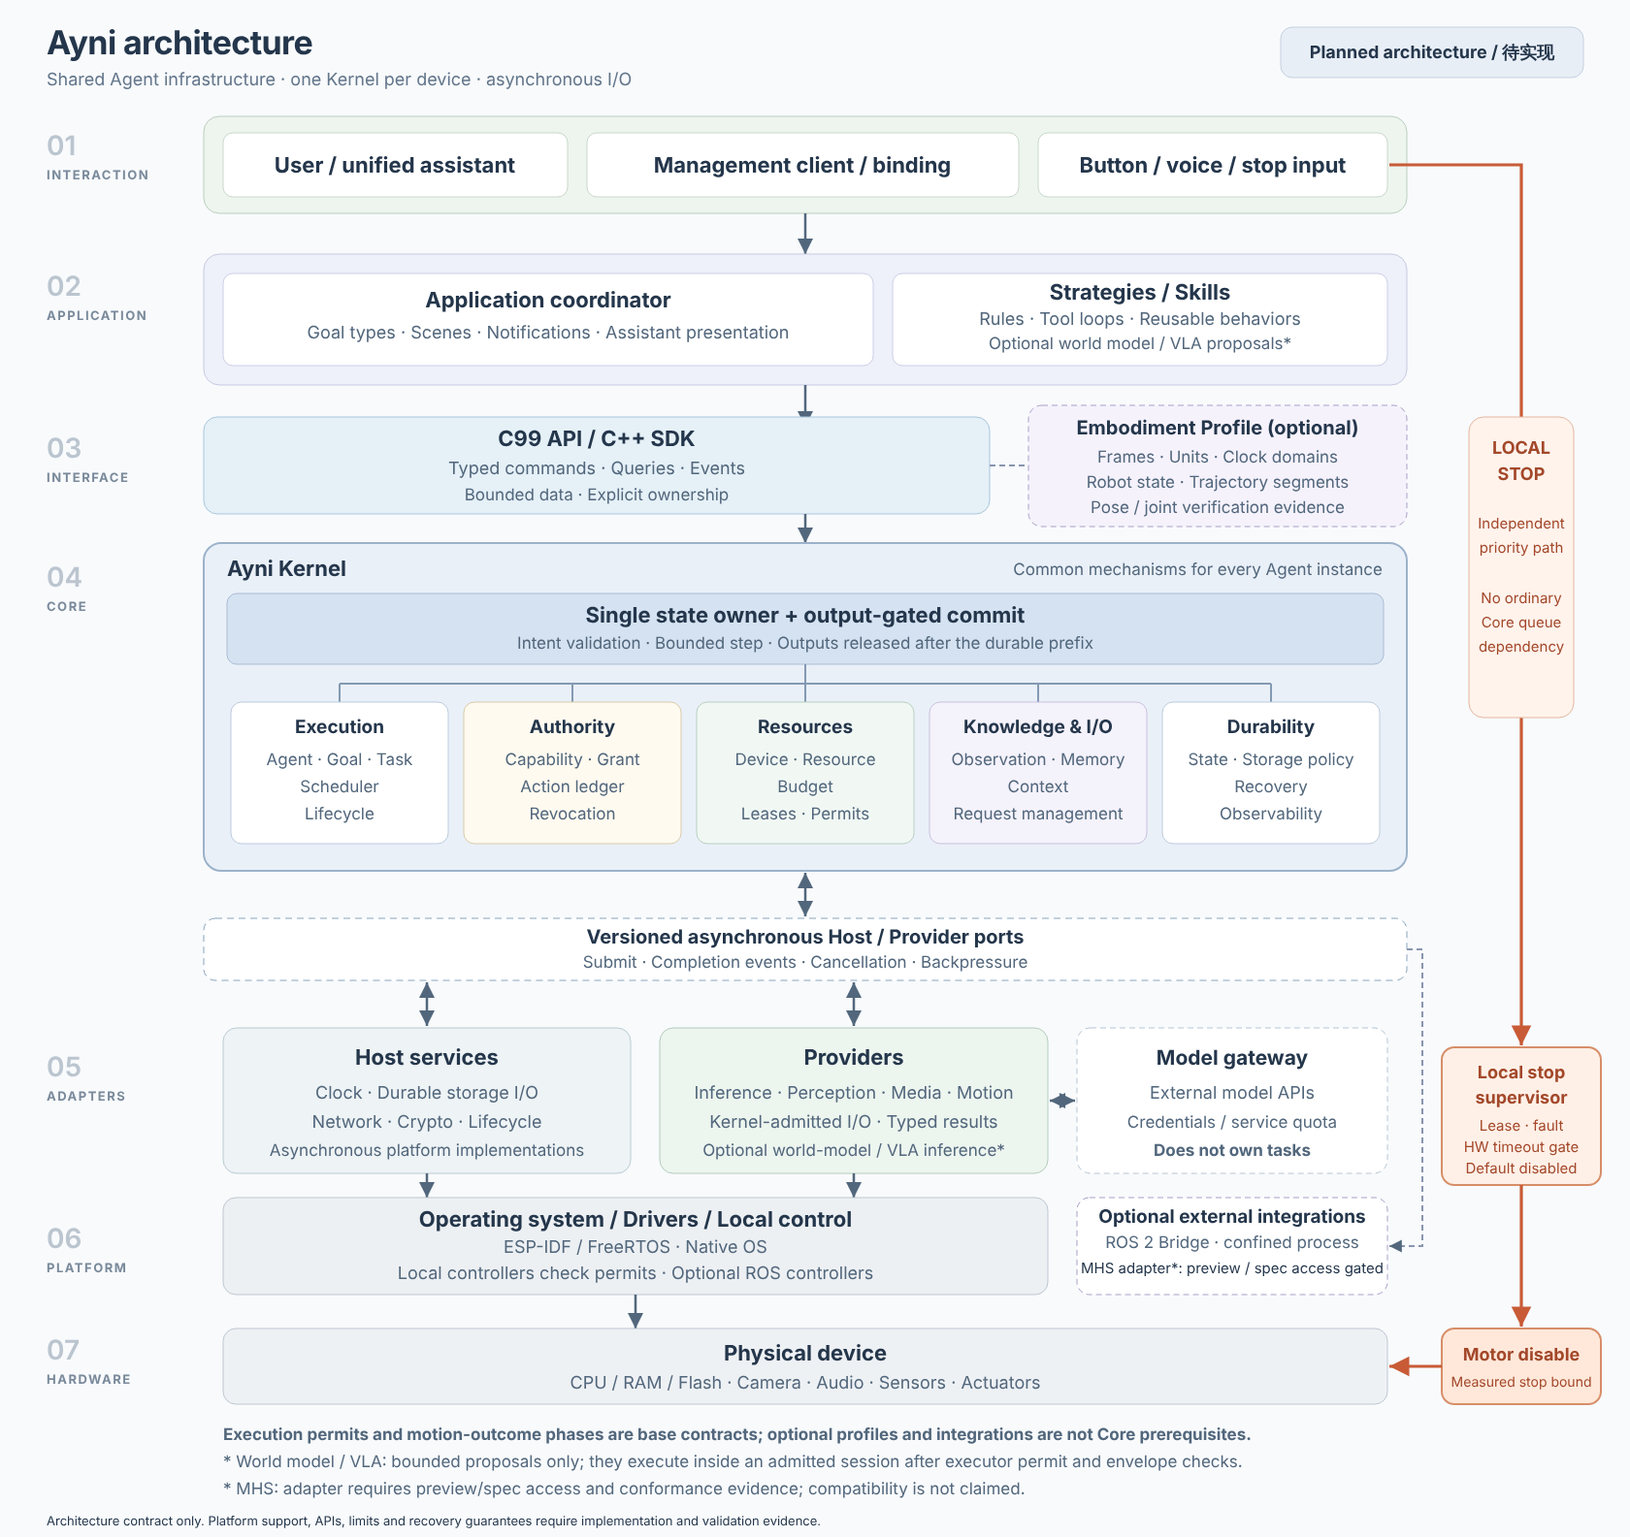
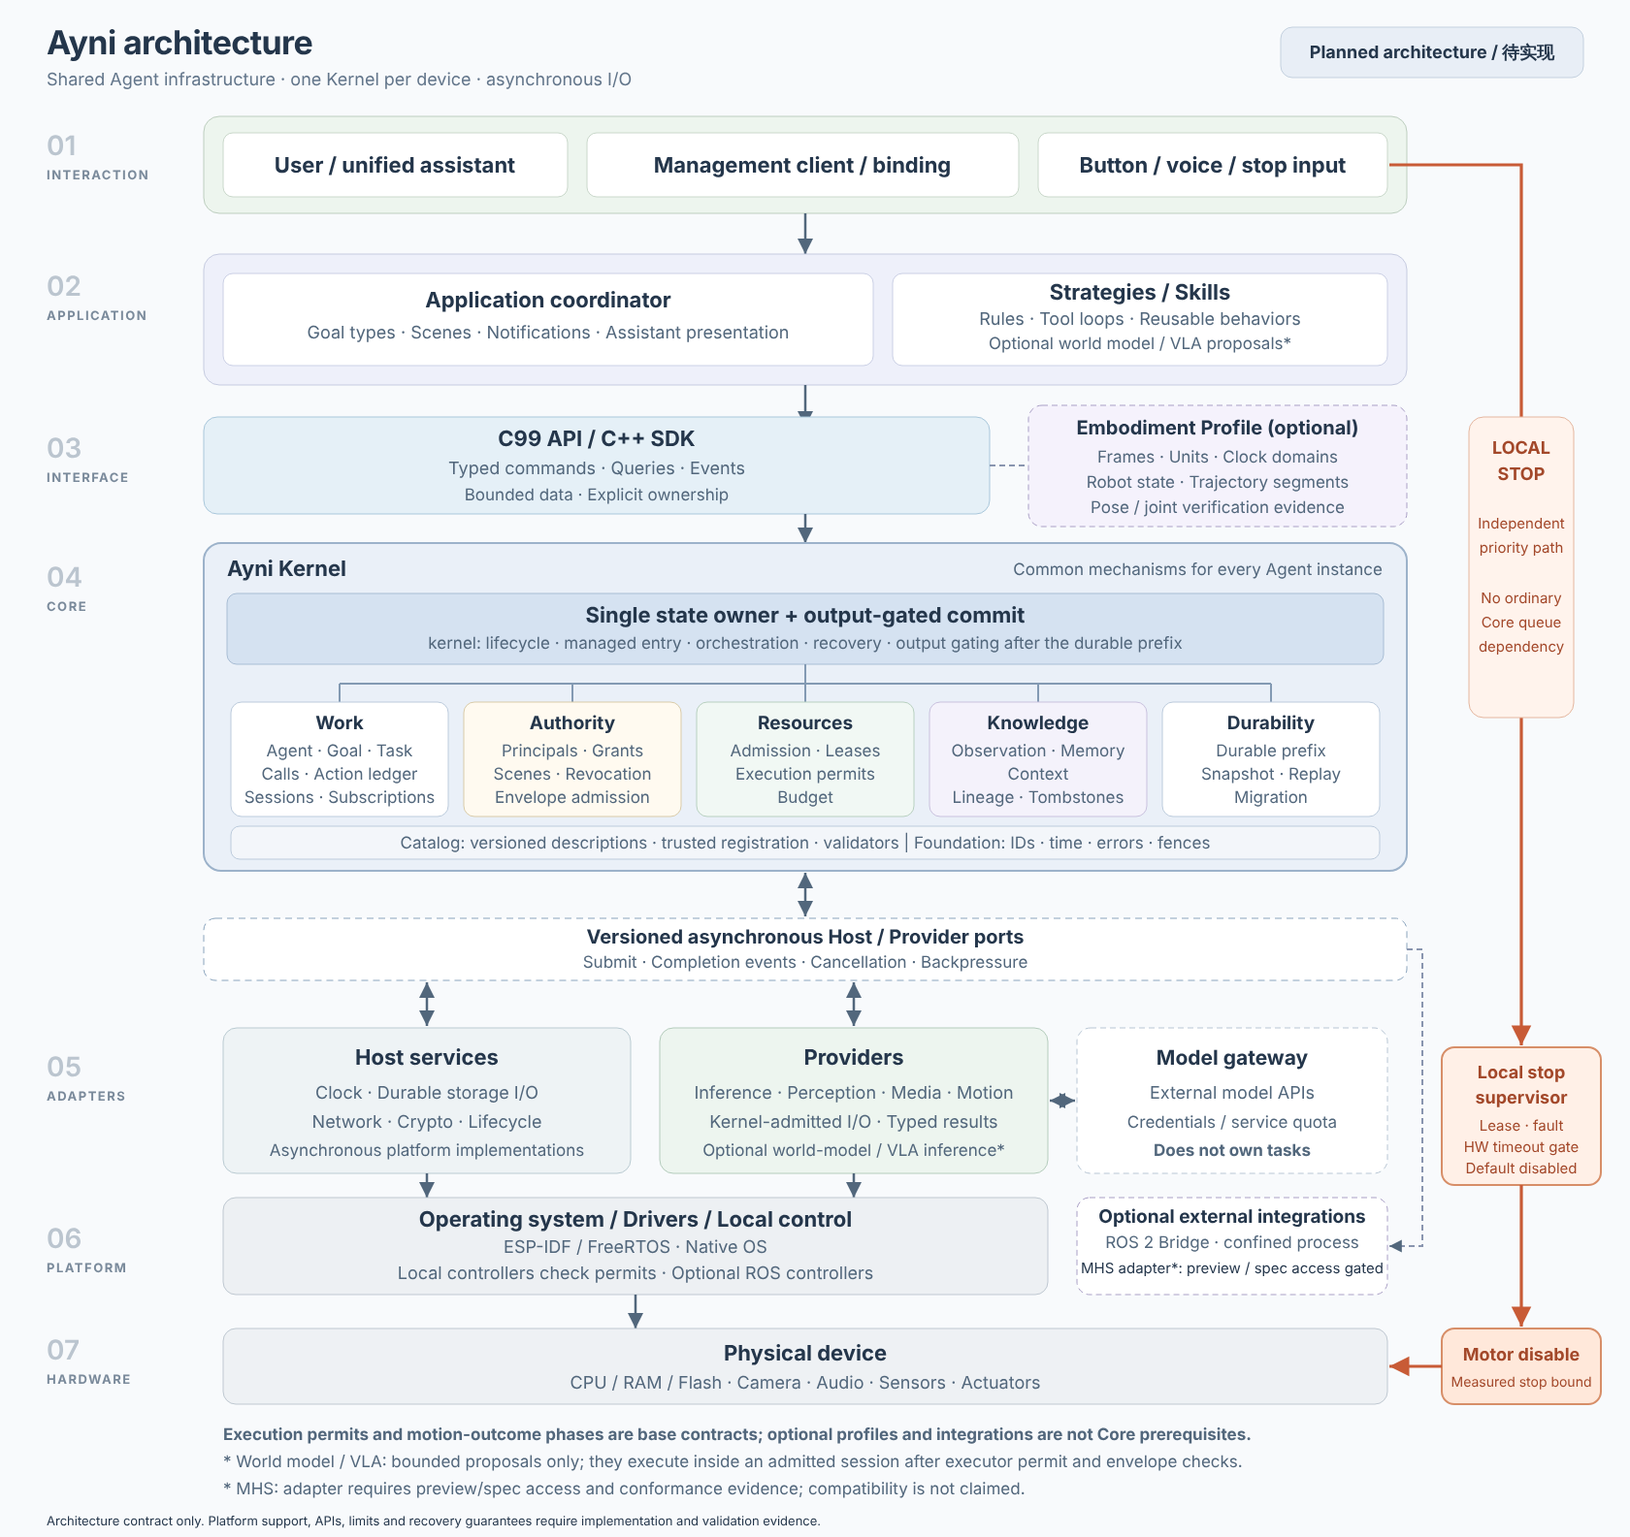
docs: adopt invariant-owner Core modules and a runtime composition root
- Evaluate ADR-0008 by its own criterion: six invariants needed three or
  more directories to write them, and the command idempotency map and
  LogicalCall identity had no owner; accept the eight-module split.
- Rewrite section 2.3 and the dependency rules around kernel, work,
  authority, resources, knowledge, catalog, durability and foundation.
- Add runtime/ as the only composition root (ADR-0010) and rename the
  executable directory apps/ to targets/ so it no longer reads like the
  applications/ layer.
- Update the READMEs, AGENTS.md and the architecture diagram to match.

Validation: git diff --check; the scratch consistency script for
section, work-package, fault-point, ADR and link references and table
columns; the SVG was rendered with Chromium (no new text overflow) and
the PNG regenerated. No code, simulator or hardware tests exist yet.

Claude-Session: https://claude.ai/code/session_01FMBjYcFnwkncm2dqPJbawp

Changed region(s): [[0.1548, 0.4637, 0.8357, 0.5565], [0.2786, 0.4019, 0.7119, 0.4328]]

diff --git a/docs/adr/0008-core-modules-by-invariant-owner.md b/docs/adr/0008-core-modules-by-invariant-owner.md
@@ -1,47 +1,58 @@
 # ADR-0008：Core 模块按不变量属主划分
 
-- **状态**：提议
-- **决定时点**：首个 Core 实现提交之前接受、修订或否决
+- **状态**：已接受（设计基线，待实现与验证）
 - **日期**：2026-10-18
-- **关联**：计划 §2.0、§2.3、§8；`MA-017`
+- **关联**：计划 §2.0、§2.3、§2.8、§4.3、§8；`MA-017`
 
 ## 背景
 
-计划 §8 按实体名词把 Core 切分为 19 个目录。派发屏障这一关键安全链路分布在 `capability/`、`policy/`、`request/`、`binding/` 与 `state/`；LogicalCall 在 v1.3 中没有归属；架构图中的 Core 分组也与目录划分不一致。v1.4 已在现有目录内为每项不变量指定唯一属主（§2.3），恢复编排放在系统调用分派层，作为过渡方案。
+v1.3 的计划 §8 按实体名词把 Core 切分为 19 个目录。派发屏障这一关键安全链路分布在 `capability/`、`policy/`、`request/`、`binding/` 与 `state/`；LogicalCall 没有归属；架构图中的 Core 分组也与目录划分不一致。v1.4 首先在原有目录内为每项不变量指定唯一属主，并把本 ADR 记为候选，约定在首个 Core 实现提交前按下述标准决定。
 
-## 候选决策
+**决定标准**：以 §2.8 的每个提交批次和 §4.3 的动作提交顺序为样例，列出每项不变量的写入方；若在原有目录下仍有不变量需要 3 个或以上目录共同写入，则采纳候选划分。
 
-按“谁维护不变量”划分 Core 模块，实体文件保留在模块内部：
+## 评估
+
+| 不变量 | 来源 | 原有目录下的写入方 | 候选划分下的写入方 |
+|---|---|---|---|
+| 命令重试返回原对象 | §2.8 批次 1 | 命令幂等映射（未指定属主）、`goal/`、`task/` | `kernel`（幂等映射）、`work` |
+| 触发不漏不重 | §2.8 批次 2 | `goal/`、`task/`、`budget/` | `work`；预算预留由 `resources` 独立保证 |
+| 步骤调用身份稳定 | §2.8 批次 3 | `task/`、`binding/`、`capability/`/`policy/`；LogicalCall 未指定属主 | `work` |
+| 结果只应用一次 | §2.8 批次 4 | `request/`、`task/`、`capability/`/`policy/` | `work` |
+| 删除与撤销不复活 | §2.8 批次 5 | `memory/`、`context/`、`observation/`、`request/` | `knowledge`；在途结果拒绝由 `kernel` 编排、`work` 执行 |
+| 派发屏障 | §4.3 | `capability/`/`policy/`、`request/`、`binding/`、`resource/`、`state/` | `work`；许可由 `resources` 签发，持久机制由 `durability` 提供 |
+| 预算不超、不双重结算 | §2.2 | `budget/` | `resources` |
+| 执行许可失效 | §2.10 | `resource/`、`policy/` | `resources`、`authority` |
+
+在原有目录下，前六项不变量各需 3 个或以上目录共同写入，并有两项状态（命令幂等映射、LogicalCall 身份）没有属主。在候选划分下，每项不变量最多两个写入方，且属主唯一。结论：满足采纳条件。
+
+## 决策
+
+Core 由以下八个模块组成。模块内部可按实体分文件（例如 `work/` 内的 goal、task、call、action_record、subscription），但文件划分不构成模块边界。
 
 | 模块 | 负责的不变量 |
 |---|---|
+| `kernel` | Kernel 生命周期、step、事件入口与完成槽、受管入口（解码 → 校验 → 分派）、命令幂等映射、跨模块编排、恢复编排、输出门控、trace 与脱敏诊断 |
+| `work` | AgentInstance 生命周期与资源归属；Goal、Task、步骤与检查点；LogicalCall 与请求尝试；ActionRecord 与派发屏障；过程、会话与订阅的生命周期 |
+| `authority` | 主体、节点与实例身份及其绑定证据；Session 信任级别；Grant、撤销与受限委派；Scene；包络静态准入判定 |
+| `resources` | 准入、队列与冲突；租期与隔离；执行许可的签发、续租与失效；预算层级、预留与结算；优先级与公平 |
+| `knowledge` | Observation 来源与有效期；记忆范围与版本；上下文预算；lineage、tombstone 与依赖失效 |
+| `catalog` | 设备、组件、资源、能力、绑定、目标类型与策略的版本化描述；可信注册；兼容矩阵；注册的纯函数校验器 |
+| `durability` | 持久前缀、日志与快照、已提交批次重放、迁移机制；不含领域策略 |
 | `foundation` | ID、时间、状态码与原因、有界容器、通用代际栅栏 |
-| `durability` | transition 日志、快照、`durable_seq`、重放、迁移机制，不含领域策略 |
-| `catalog` | 设备、组件、资源、能力、绑定与目标类型的版本化描述，以及兼容矩阵 |
-| `authority` | 主体信任级别、Grant、Scene、撤销栅栏、包络静态准入判定 |
-| `resources` | 准入、租约与执行许可、隔离、预算层级（预留与结算）、公平性 |
-| `knowledge` | Observation、Memory、Context 预算、lineage 与 tombstone |
-| `work` | Goal、Task、步骤、LogicalCall、ActionRecord、过程/会话：完整的调用生命周期与派发屏障 |
-| `kernel` | 生命周期、step、受管入口、跨模块编排、恢复编排、输出门控 |
 
-依赖方向为 `kernel → work → {authority, resources, knowledge} → catalog → durability → foundation`。删除、撤销等跨模块失效由 `kernel` 编排；具身校验器以纯函数注册到 `catalog`，Core 不按机器人类型编译。
+依赖方向为 `kernel → work → {authority, resources, knowledge} → catalog → durability → foundation`。`authority`、`resources`、`knowledge` 之间不互相依赖；需要多方参与的状态转换由 `kernel` 在同一 transition 中编排。具身包络等类型相关的校验器以纯函数注册到 `catalog`，Core 不按机器人类型编译。
 
-## 变更场景对比
+## 后果
 
-| 场景 | 现有目录 | 候选划分 |
-|---|---|---|
-| 修改副作用类别或屏障规则 | `capability/`、`policy/`、`request/`、`binding/`、`state/` | `work`，必要时加 `authority` 中的一项判定 |
-| 更换存储 Host | 只改持久层 Host 端口 | 同左 |
-| 新增一种机器人类型 | Core 不改 | Core 不改 |
+- 修改副作用类别或屏障规则时，改动集中在 `work`，必要时加上 `authority` 中的一项判定；原有目录下需要同时修改 5 个目录。
+- 更换存储 Host 只改持久层的 Host 端口；新增机器人类型不改 Core。两种划分在这两个场景下相同。
+- 模块较大，需要依靠内部文件结构保持可读。
 
-## 取舍
+## 备选方案
 
-候选划分的模块更大，需要靠内部文件结构保持可读；采纳后需一次性迁移计划 §2.3、§8 与架构图的表述。若不采纳，现有目录必须保持 §2.3 的唯一属主约定，并由依赖检查防止横向修改。
-
-## 决定依据
-
-以 §2.8 的每个提交批次和 §4.3 的动作提交顺序为样例，列出每项不变量的写入方。若在现有目录下仍有不变量需要 3 个或以上目录共同写入，则采纳候选划分；否则保留现有目录并记录理由。
+- **保留原有 19 个实体目录，只约定唯一属主**：评估中有六项不变量仍需 3 个以上目录写入，属主约定无法由依赖检查自动保证，否决。
+- **按调用流程分层（入口 → 校验 → 执行 → 持久）**：同一实体的不变量会散落在多个层次，否决。
 
 ## 验证
 
-采纳后，在 CI 中用构建目标依赖检查禁止反向依赖与依赖环。
+实现开始后，在 CI 中用构建目标依赖检查强制上述依赖方向，禁止依赖环以及 `authority`、`resources`、`knowledge` 之间的横向依赖。

diff --git a/docs/adr/0010-composition-root-and-targets.md b/docs/adr/0010-composition-root-and-targets.md
@@ -1,0 +1,33 @@
+# ADR-0010：组合根 `runtime/` 与可执行目标 `targets/`
+
+- **状态**：已接受（设计基线，待实现与验证）
+- **日期**：2026-10-18
+- **关联**：计划 §2.6、§8、§11；ADR-0006、ADR-0008
+
+## 背景
+
+- 计划要求 Core 不依赖具体 Host、Provider 或驱动，但没有规定由谁把它们装配在一起。若模拟器和 ESP32 固件各自装配，同一套装配逻辑（注册顺序、`ayni_start`、部署 Profile 的容量配置、控制与停止组件的连接）会出现两份，“只有一处引用具体实现”的规则也没有落点。
+- `apps/`（模拟器与固件的可执行程序）与 `applications/`（运行在 Ayni 之上的助理应用层）名称相近。在 AgentOS 的语境里，“apps”通常指运行在系统之上的应用，即 `applications/` 承担的职责，因此混淆的来源是可执行程序目录的名称。
+
+## 决策
+
+1. 新增组合根 `runtime/`：按部署 Profile（`CORE_LITE`、`CORE_FULL`，以及未来的设备端点）装配 Kernel、Host、Provider、控制与停止组件，完成注册与 `ayni_start`。`runtime/` 是唯一引用具体实现的位置。
+2. 可执行程序与固件目录由 `apps/` 更名为 `targets/`（例如 `targets/simulator/`、`targets/esp32_assistant/`）。它们只调用 `runtime/`，不直接装配组件。
+3. 保留 `applications/` 作为应用层目录名，与计划正文中“应用注册”“应用层”的用语一致。
+4. `targets/` 指构建产物的入口，与 ESP-IDF 的芯片 target（`idf.py set-target`）是不同概念，计划 §8 对此另有说明。
+
+## 后果
+
+- 新增宿主或部署 Profile 时，只需改 `runtime/` 中的装配和新的 `targets/` 入口，Core 与 SDK 不变。
+- 装配错误（注册缺失、Profile 容量与 Host 能力不符）可以在 `runtime/` 中统一测试。
+- 文档中的计划命令路径改为 `build/native/targets/simulator/ayni-sim` 与 `targets/esp32_assistant/`。
+
+## 备选方案
+
+- **每个可执行程序自行装配**：装配逻辑重复，否决。
+- **把装配放进 Core 或 SDK**：Core 会依赖具体实现，违反依赖规则，否决。
+- **改名 `applications/` 而保留 `apps/`**：计划正文以“应用”指运行在 Ayni 之上的业务层，改名会使用语与目录不一致，否决。
+
+## 验证
+
+实现开始后，在 CI 的依赖检查中确认：只有 `runtime/` 依赖 `hosts/`、`providers/`、`drivers/`、`control/` 与 `safety/` 的具体实现；`targets/` 只依赖 `runtime/`；`examples/` 只依赖公开 SDK。

diff --git a/AGENTS.md b/AGENTS.md
@@ -8,12 +8,13 @@ This checkout is at the documentation and planning stage. Read `docs/ayni_v1.0.m
 
 Follow the planned layout when implementation begins:
 
-- `core/`: portable Kernel state, scheduling, authorization, and recovery.
+- `core/`: portable Kernel state, scheduling, authorization, and recovery, split by invariant owner into `kernel/`, `work/`, `authority/`, `resources/`, `knowledge/`, `catalog/`, `durability/`, and `foundation/` (ADR-0008).
 - `include/ayni/`, `contracts/`: public C/C++ interfaces and versioned contracts.
 - `strategies/`, `applications/`: variable policies, goal types, scenes, and assistant workflows.
 - `hosts/`, `providers/`, `drivers/esp32/`: platform services, asynchronous I/O, and hardware drivers.
 - `control/`, `safety/`: permit-checked local execution and the independent stop chain; neither depends on `core/`.
-- `apps/`, `ui/web/`: simulator, ESP32 assistant, and management UI/assets.
+- `runtime/`: the composition root that wires each deployment profile; the only place that references concrete Host, Provider, control, and safety implementations.
+- `targets/`, `ui/web/`: simulator and ESP32 firmware entry points built on `runtime/`, and management UI/assets.
 - `tests/`: unit, contract, integration, fault-injection, fuzz, and hardware-in-loop tests.
 - `docs/adr/`, `reports/`: architectural decisions and validation evidence.
 
@@ -25,10 +26,10 @@ No versioned build scripts or runnable application exist yet. For current docume
 cmake -S . -B build/native -DCMAKE_BUILD_TYPE=Debug -DAYNI_BUILD_TESTS=ON -DAYNI_HOST=native
 cmake --build build/native -j
 ctest --test-dir build/native --output-on-failure
-./build/native/apps/simulator/ayni-sim
+./build/native/targets/simulator/ayni-sim
 ```
 
-These will configure, build, test, and launch the simulator once implemented. Future firmware builds use `idf.py build` from `apps/esp32_assistant/` after activating the pinned ESP-IDF environment. Document actual toolchain versions and executable checks when adding implementation; do not report planned commands as completed validation.
+These will configure, build, test, and launch the simulator once implemented. Future firmware builds use `idf.py build` from `targets/esp32_assistant/` after activating the pinned ESP-IDF environment. Document actual toolchain versions and executable checks when adding implementation; do not report planned commands as completed validation.
 
 ## Coding Style & Naming Conventions
 

diff --git a/README.en.md b/README.en.md
@@ -20,7 +20,7 @@ Ayni's domain contracts govern tasks, authorization, and execution; external ROS
 |---|---|
 | Applications, Coordinator, strategies, and Skills | Define reminders and observation workflows, route user requests, select Agents, and compose bounded work; rules, Tool Loops, and planners remain above the Kernel |
 | C API / SDK | Submit typed intents or commands, query snapshots, and register goal types and capabilities, while preserving common authorization, error, and lifecycle semantics |
-| Shared Kernel services | Agent/Task scheduling, context and memory, storage commit coordination, Capability/Tool, Access/Policy, Resource/Budget, and Observation/Request |
+| Shared Kernel services | Eight modules split by invariant owner: `kernel` (entry, orchestration, and output gating), `work` (Agents, Goals, Tasks, calls, and the action ledger), `authority` (principals, Grants, and Scenes), `resources` (admission, permits, and budgets), `knowledge` (observations, memory, and context), `catalog`, `durability`, and `foundation` |
 | Async execution and platform services | Hosts supply clocks, storage, networking, and lifecycle services; Providers implement models, perception, media, and actions |
 | Local control and stopping | Controllers execute within admitted envelopes under short, renewable permits, and executors can only tighten authority; a local stop supervisor operates independently of models and ordinary work queues, and the stop chain includes hardware disable |
 | OS, drivers, and hardware | Reuse existing OS scheduling; Drivers access specific hardware; the clocks, interrupts, and hardware timeouts that the stop chain depends on require measurement |

diff --git a/README.md b/README.md
@@ -20,7 +20,7 @@ Ayni 的领域契约是任务、权限与执行语义的权威；ROS 2、MHS、M
 |---|---|
 | 应用、Coordinator、策略与 Skills | 提醒、观察等业务语义；路由用户请求、选择 Agent、组合有界工作流；规则、Tool Loop 和规划器均位于 Kernel 之上 |
 | C API / SDK | 提交类型化意图或命令、查询快照、注册目标类型与能力；封装保持同一套权限、错误和生命周期语义 |
-| 共享 Kernel 服务 | Agent/Task 调度、上下文与记忆、存储提交协调、Capability/Tool、Access/Policy、Resource/Budget、Observation/Request |
+| 共享 Kernel 服务 | 按不变量属主分为八个模块：`kernel`（入口、编排与输出门控）、`work`（Agent/Goal/Task、调用与动作账本）、`authority`（主体、Grant、Scene）、`resources`（准入、许可与预算）、`knowledge`（观察、记忆与上下文）、`catalog`、`durability`、`foundation` |
 | 异步执行与平台服务 | Host 提供时钟、存储、网络和生命周期；Provider 承担模型、感知、媒体及动作 |
 | 本地控制与停止 | 控制器在已准入包络内凭短租约许可执行，执行端只能收紧；本地停止监督器独立于模型和普通工作队列，停止链含硬件失能 |
 | OS、驱动与硬件 | 使用现有操作系统调度；Driver 接入具体硬件；停止链依赖的时钟、中断与硬件超时须实测 |

diff --git a/docs/adr/README.md b/docs/adr/README.md
@@ -19,8 +19,9 @@
 | [0005](0005-esp32-layered-stop-chain.md) | ESP32 分层停止链 | 已接受 | §4.1、§7.1、§7.3 |
 | [0006](0006-kernel-lifecycle-ports-and-policy-interface.md) | Kernel 生命周期、Host/Provider 边界与策略接口 | 已接受 | §2.0、§2.5、§3.2、§4.4 |
 | [0007](0007-notification-presentation-and-task-state.md) | 通知呈现复用能力调用与 Task 状态维度 | 已接受 | §2.4、§5.4 |
-| [0008](0008-core-modules-by-invariant-owner.md) | Core 模块按不变量属主划分 | 提议 | §2.3、§8 |
+| [0008](0008-core-modules-by-invariant-owner.md) | Core 模块按不变量属主划分 | 已接受 | §2.0、§2.3、§8 |
 | [0009](0009-idl-and-local-api-encoding.md) | IDL 与本地 API 编码 | 提议 | §3.1、§3.2 |
+| [0010](0010-composition-root-and-targets.md) | 组合根 `runtime/` 与可执行目标 `targets/` | 已接受 | §2.6、§8、§11 |
 
 ## 模板
 
